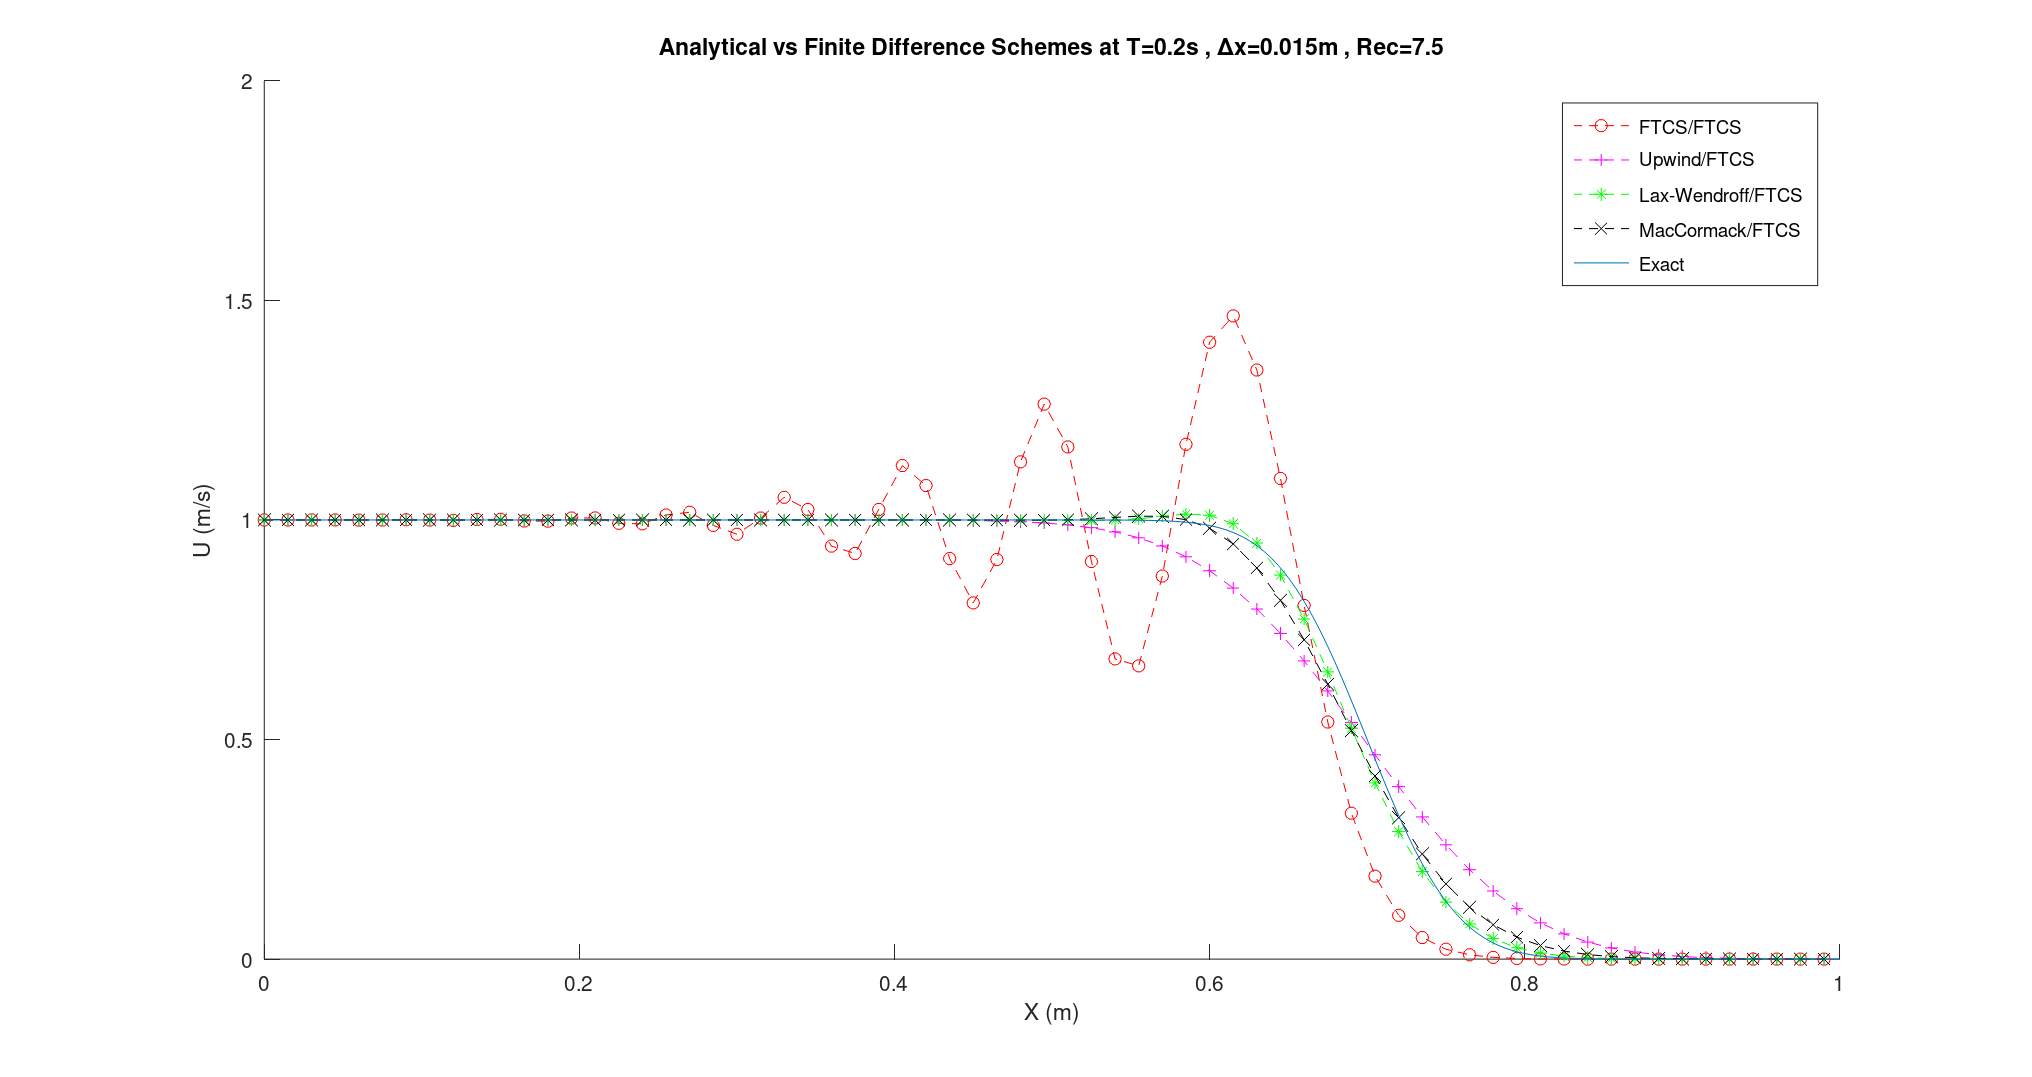
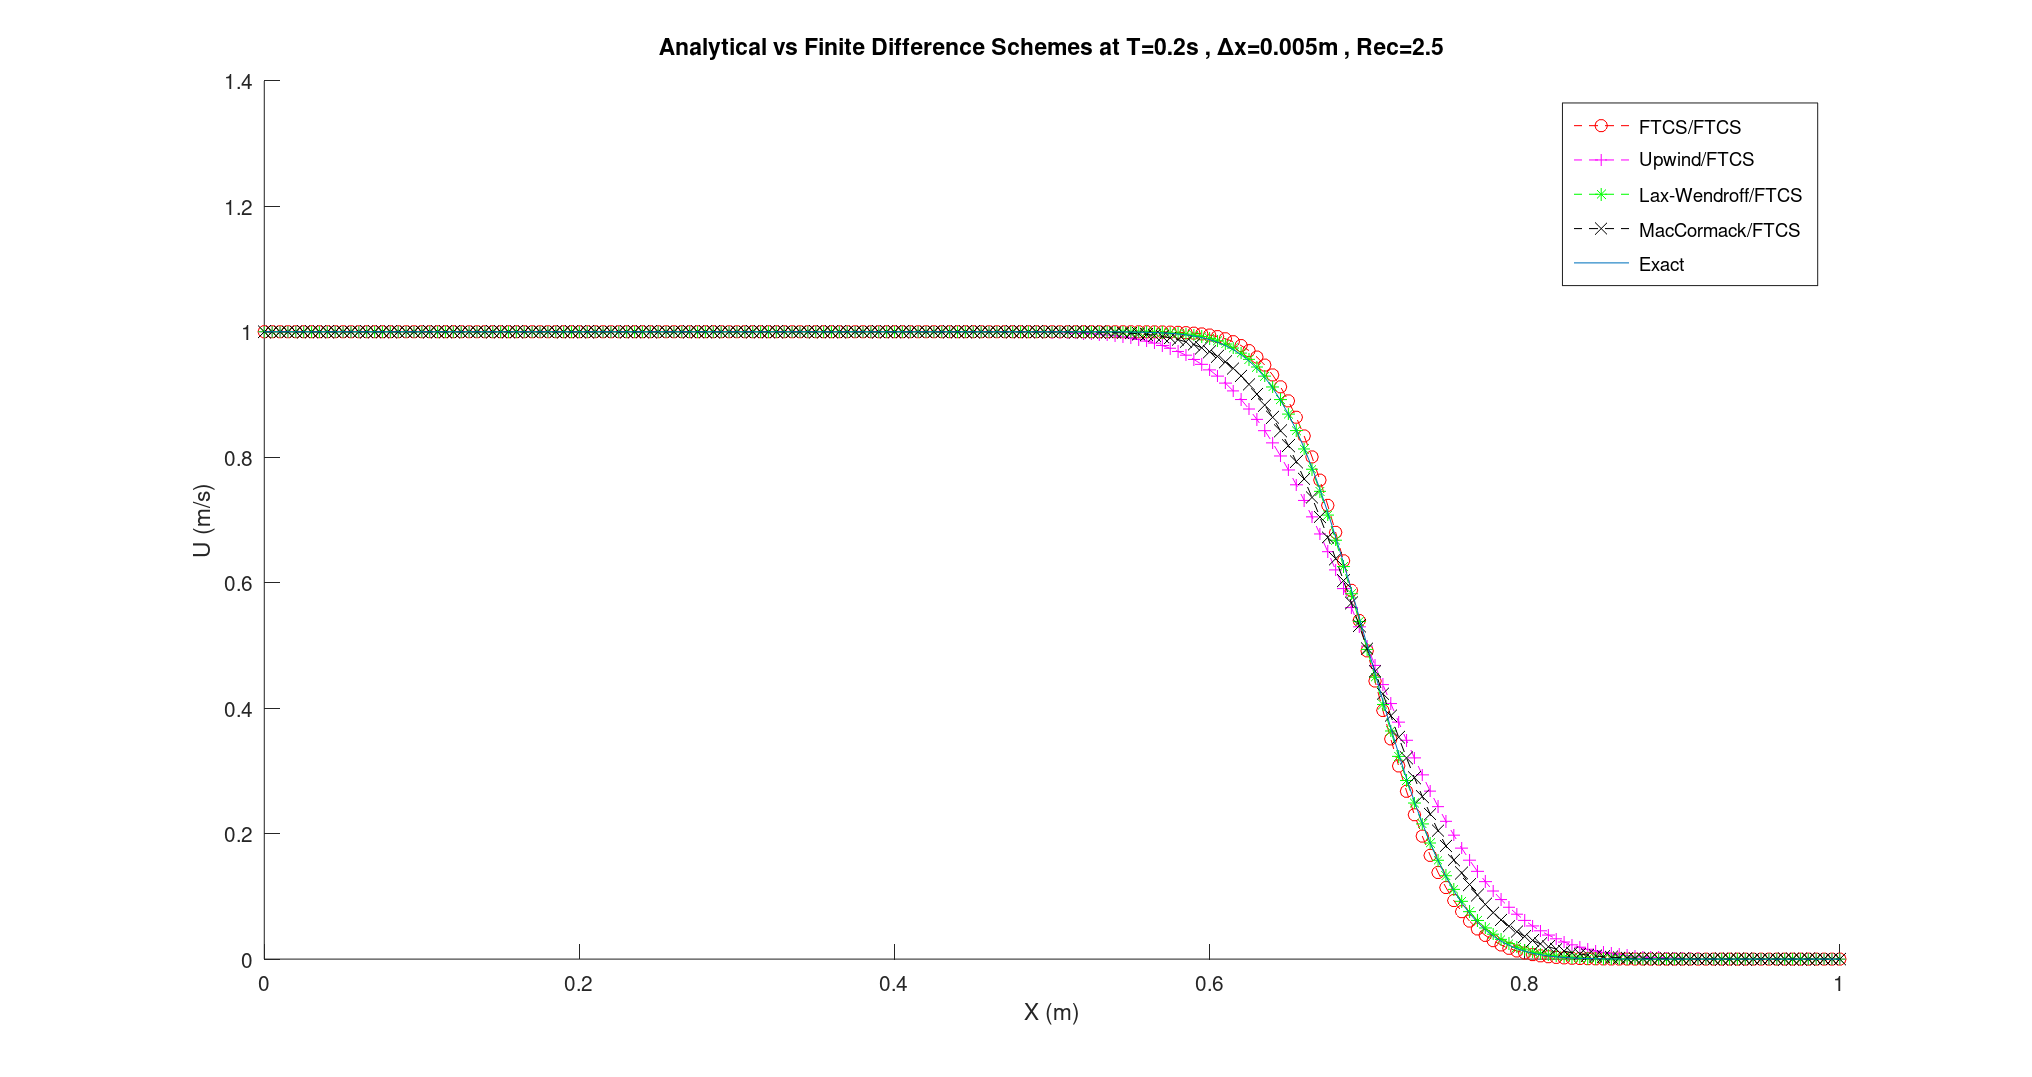
Update readme and convection-diffusion grid
Update dx from 0.015 to 0.005

Changed region(s): [[0.124, 0.2758, 0.6511, 0.5209], [0.6201, 0.4903, 0.8991, 0.9192]]

diff --git a/convection-diffusion/convection-diffusion.m b/convection-diffusion/convection-diffusion.m
@@ -19,7 +19,7 @@ Tatime=toc
 
 %% Initialization 
 
-dx = 0.015;                     % Step Size in X, dx
+dx = 0.005;                     % Step Size in X, dx
 dt = (0.05*dx^2)/alpha;         % Step Size in T (Calculated), dt
 d = alpha*dt/dx^2;              % Fourier Coefficient, d
 c = a*dt/dx;                    % Courant Coefficient, c

diff --git a/README.md b/README.md
@@ -30,19 +30,19 @@ See [Description](https://raw.github.com/byrneta/Computational-Fluid-Dynamics/ma
 
 ### Comparative Times
 
-Analytical = 0.000003s
+Analytical = 0.000005s
 
 #### Finite Difference
 
-FTCS/FTCS = 0.038769s\
-Upwind/FTCS = 0.038277s\
-Lax-Wendroff/FTCS = 0.056178s\
-MacCormack/FTCS = 0.079028s
+FTCS/FTCS = 1.0439s\
+Upwind/FTCS = 1.0252s\
+Lax-Wendroff/FTCS = 1.5129s\
+MacCormack/FTCS = 2.1235s
 
 #### Finite Volume
 
-FTCS/FTCS = 0.038992s\
-Upwind/FTCS = 0.038287s
+FTCS/FTCS = 1.0541s\
+Upwind/FTCS = 1.0274s
 
 ### Example Plots
 ![Convection-Diffusion PDE Plot #1](https://raw.githubusercontent.com/byrneta/Computational-Fluid-Dynamics/master/convection-diffusion/convection-diffusion-fig1.png)
